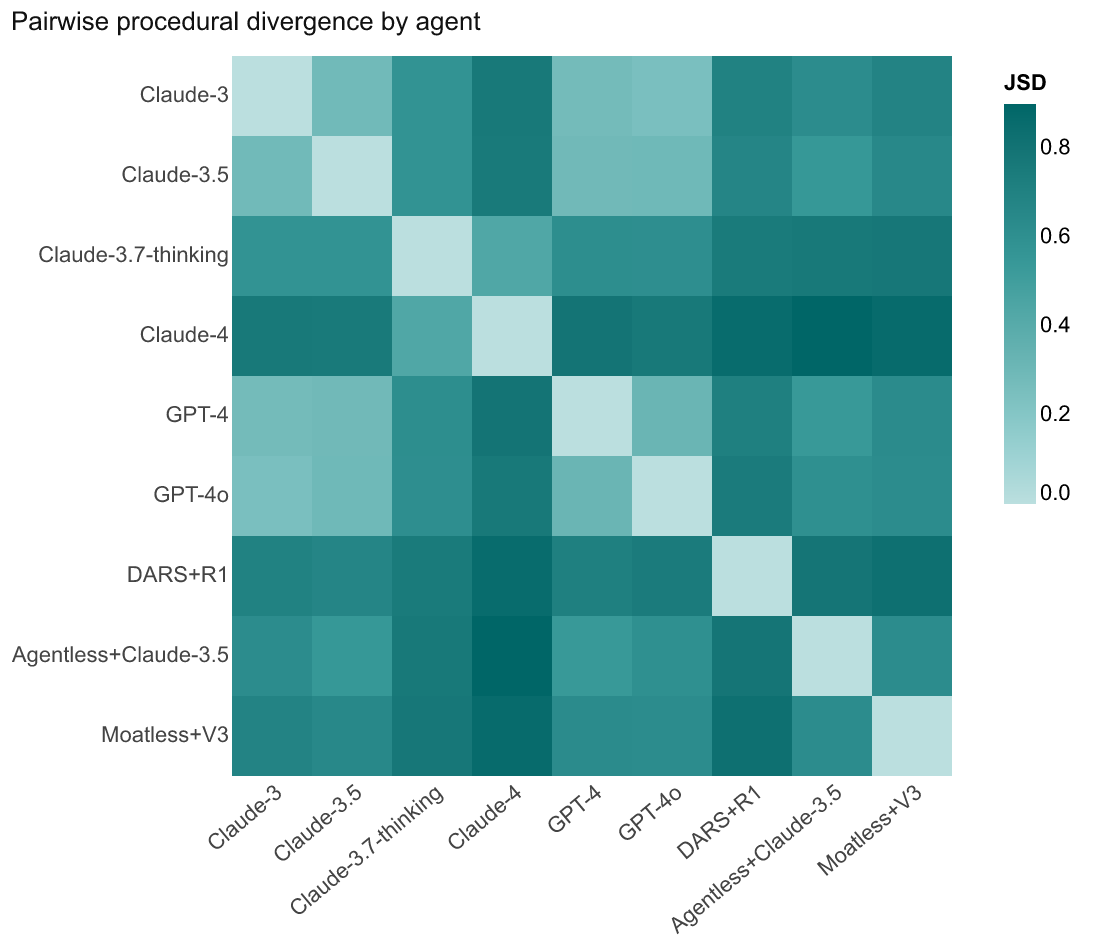
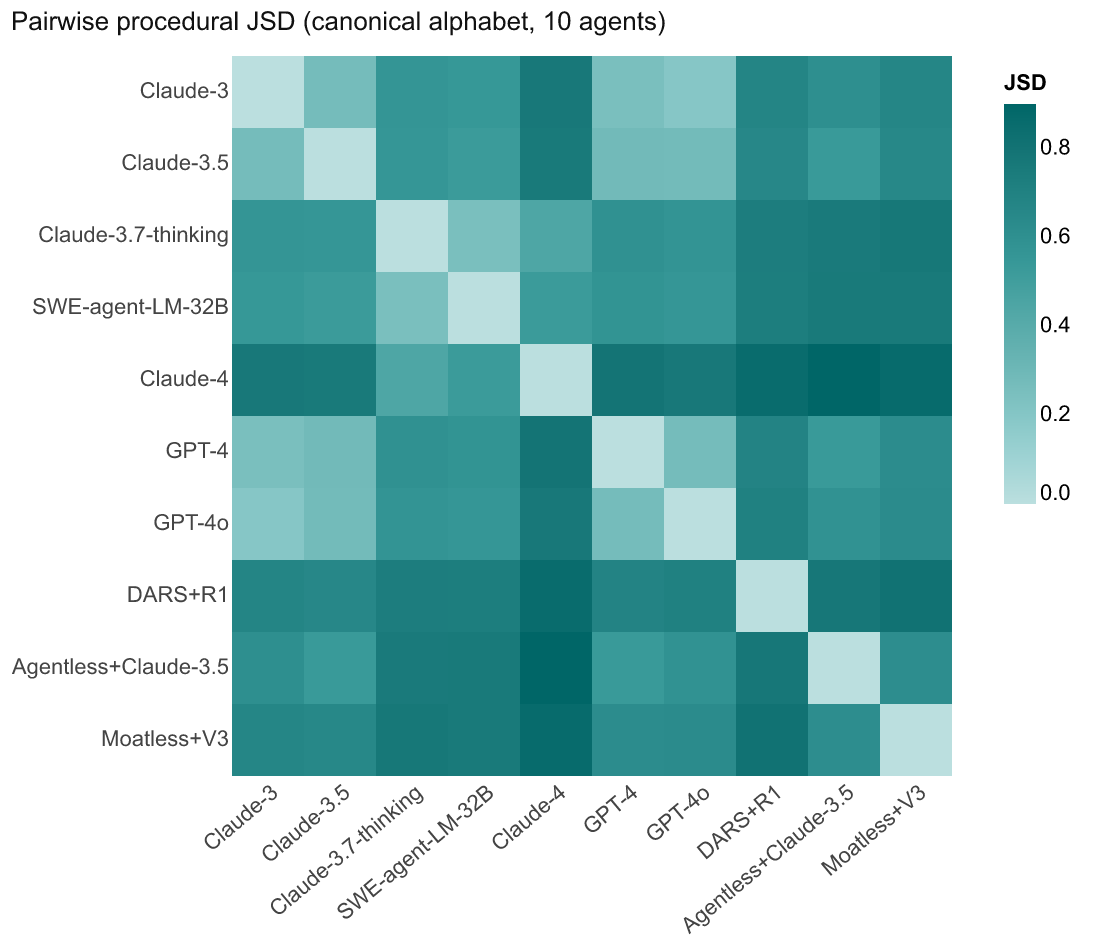
harness decomposition: ground it (lineage<<scaffold~era), regenerate JSD figure with child
- jsd_decomposition.py: 10-agent canonical JS-distance matrix incl. distilled child + scaffold/era/lineage readout
- corrects the TODO's false 'scaffold>era>lineage' (0.49/0.36/0.15) -> grounded lineage 0.25 << scaffold 0.53 ~ era 0.52
- regenerate fig_jsd_matrix_full_canonical with the child (was 9-agent no-child despite caption); old saved _prev9
- fix fig:jsd_full caption + inline JSD sentence + replace harness-decomp TODO with grounded blue paragraph
- log in findings grounding-audit

diff --git a/docs/papers/agent_trajectories_as_programs.tex b/docs/papers/agent_trajectories_as_programs.tex
@@ -130,7 +130,7 @@ To extract the actions themselves, we take code hunks---solution patches---from 
 
 We investigate entropy within the context of a collective with Jensen-Shannon Divergence. Entropy (H), a measure of uncertainty in a distribution (where a distribution here is the probability over all the possible actions in our vocabulary), is a property that can be applied to a single agent's distribution of actions, where it is defined as: $$H(a) = -\sum_{v \in \mathcal{V}} p_a(v) \log_2 p_a(v)$$ JSD allows us to build on entropy and measure how different two distributions are and is defined as: $$\mathrm{JSD}(a, b) = H\!\left(\frac{p_a + p_b}{2}\right) - \frac{1}{2}H(a) - \frac{1}{2}H(b)$$
 
-\textcolor{blue}{Applied across all ten agents (Figure~\ref{fig:jsd_full}), pairwise JSD shows the distilled child sitting closest to its teacher (JSD 0.10) while the same model under two scaffolds diverges most (0.49)---scaffold outweighs training lineage in procedural impact.}
+\textcolor{blue}{Applied across all ten agents (Figure~\ref{fig:jsd_full}), the distilled child's nearest neighbour is its teacher (JSD 0.25), whereas changing the scaffold or the model generation moves behavior about twice as far (${\approx}0.53$)---distillation preserves procedure more than either.}
 
 Across all models, passing behavior includes a higher ratio of browsing to other actions. Extended thinking Claude models spend the largest proportion of their time in the shell compared to older models with more even task breakdowns. Models in the GPT family have more consistent behavior, but newer ones spend more time editing. Agent harnesses have less task diversity, potentially due to their programmed behavior and have more distinct breakdowns, the Agentless scaffold spends a disproportionate amount of time browsing and the Moatless scaffold leads to a large proportion of testing. An interesting application of this is forecasting the costs of an agent, as it is not only a product of the cost per tool call, but a function of the action types needed to complete it and the procedural tendencies of the model being orchestrated. \textcolor{blue}{Figures~\ref{fig:step_token_cost}, \ref{fig:steps_resolved}, and~\ref{fig:token_cost_difficulty} break this down: cost by action type and tokens, steps per resolved task, and the monotonic decline of tokens, API calls, and dollar cost as task difficulty falls.}
 
@@ -466,7 +466,7 @@ Fingerprints give us behavioral trends that form the basis for predicting which 
 \begin{figure}[H]
     \centering
     \includegraphics[width=0.9\linewidth]{figures/fig_jsd_matrix_full_canonical.png}
-    \caption{\textcolor{blue}{Pairwise JSD between 10 agents at canonical alphabet, grouped by model family and scaffold. The distilled child (SWE-agent-LM-32B) is closest to its parent (Claude-3.7~Sonnet) at JSD\,=\,0.10. The same model under two harnesses diverges at JSD\,=\,0.49, confirming scaffold\,$>$\,era\,$>$\,lineage in procedural impact.}}
+    \caption{\textcolor{blue}{Pairwise procedural JSD (base-2 Jensen--Shannon distance over per-trajectory canonical distributions) across ten agents. The distilled child (SWE-agent-LM-32B) and its teacher (Claude-3.7~Sonnet) form the tightest model pair (JSD 0.25, the child's nearest neighbour by a factor of two). Changing the scaffold (Claude-3.5 under Agentless vs.\ SWE-agent, 0.53) or the model generation (within-family, mean 0.52) moves behavior about twice as far---so lineage $\ll$ scaffold $\approx$ era. The older dense models converge across families (Claude-3 vs.\ GPT-4o, 0.20, the closest pair overall).}}
     \label{fig:jsd_full}
 \end{figure}
 
@@ -503,7 +503,7 @@ Weighted mean  & 745 & 0.253 & -- & -- \\
 \end{figure}
 
 
-\textcolor{purple}{TODO: Add harness decomposition result as a paragraph or table --- scaffold (JSD 0.49) > model era (JSD 0.36) > training lineage (JSD 0.15).}
+\textcolor{blue}{\textbf{What moves procedure most.} Decomposing the JSD matrix (Figure~\ref{fig:jsd_full}) by what is varied: \emph{distillation} preserves procedure---the SWE-agent-LM-32B child diverges from its Claude-3.7 teacher by only 0.25, its nearest neighbour by a factor of two. Changing the \emph{scaffold} (Claude-3.5 under Agentless vs.\ SWE-agent, 0.53) or the \emph{model generation} within a family (mean 0.52, range 0.27--0.77) moves behavior roughly twice as far, and the two are comparable---so lineage $\ll$ scaffold $\approx$ era, rather than a strictly scaffold-dominant ordering. The extremes combine both axes (Agentless+Claude-3.5 vs.\ Claude-4, 0.90).}
 
 \subsection{\textcolor{blue}{Corpus and canonicalization}}
 \textcolor{blue}{We study 2{,}639 trajectories from nine agents (Table~\ref{tab:models}) on SWE-bench Lite, plus 499 SWE-agent-LM-32B child trajectories (\S\ref{sec:distillation}) on SWE-bench Verified, all from public leaderboard submissions (\texttt{princeton-nlp/SWE-bench-experiments}; raw trajectories from the submission S3 bucket). Each \texttt{.traj} is mapped to a canonical action sequence by \texttt{canonicalize\_envelope}, which dispatches on scaffold format (SWE-agent, Agentless, DARS, Moatless) and emits a shared ${\approx}76$-atom alphabet. Atoms carry a coarse verb and a file-type tag (e.g.\ \texttt{EDIT\_SRC\_PY}, \texttt{RUN\_PYTHON\_TEST\_PY}, \texttt{OPEN\_SRC\_PY}); chained shell commands are parsed past \texttt{cd\,\&\&} prefixes; Claude-3.7's \texttt{str\_replace\_editor} calls are rewritten into the SWE-agent alphabet; a thought with no tool call emits \texttt{THINK}; unmapped scaffold-specific actions collapse to \texttt{OTHER}. A coarse seven-type projection (\texttt{to\_canon}: \texttt{edit}, \texttt{create\_file}, \texttt{run\_test}, \texttt{read\_file}, \texttt{search\_repo}, \texttt{submit}, \texttt{other}) is used wherever a scaffold-agnostic alphabet is needed (attribution, reward, early-abort).}

diff --git a/scripts/agent_trajectories_paper/jsd_decomposition.py b/scripts/agent_trajectories_paper/jsd_decomposition.py
@@ -1,0 +1,83 @@
+"""Canonical-alphabet JSD matrix (10 agents incl. distilled child) + harness decomposition.
+
+Matches make_figs.py's method (base-2 Jensen-Shannon DISTANCE over per-trajectory
+mean canonical distributions) but ADDS the SWE-agent-LM-32B child, so the figure
+matches its caption. Also computes the scaffold/era/lineage decomposition that
+grounds the harness-decomposition paragraph. Backs up the old figure. Run from repo root.
+"""
+import json
+import shutil
+from pathlib import Path
+from itertools import combinations
+
+import numpy as np
+import pandas as pd
+import altair as alt
+from scipy.spatial.distance import jensenshannon
+import sys
+sys.path.insert(0, ".")
+from scripts.theme import register
+
+register()
+rows = [json.loads(l) for l in open("output/paper2_pilot/bpe_sequences_extended.jsonl")]
+child = [json.loads(l) for l in open("distillation_run/fingerprints_child.jsonl")]
+
+alphabet = sorted({a for r in rows for a in r["canonical"]} | {a for r in child for a in r.get("native", [])})
+idx = {a: i for i, a in enumerate(alphabet)}
+
+
+def td(seq):
+    v = np.zeros(len(alphabet))
+    for a in seq:
+        if a in idx:
+            v[idx[a]] += 1
+    s = v.sum()
+    return v / s if s else v
+
+
+by = {}
+for r in rows:
+    by.setdefault(r["agent"], []).append(td(r["canonical"]))
+by["SWE-agent-LM-32B"] = [td(r.get("native", [])) for r in child]
+means = {a: np.mean(v, axis=0) for a, v in by.items()}
+
+
+def D(a, b):
+    j = float(jensenshannon(means[a], means[b], base=2))
+    return 0.0 if np.isnan(j) else j
+
+
+ORDER = ["Claude-3", "Claude-3.5", "Claude-3.7-thinking", "SWE-agent-LM-32B", "Claude-4",
+         "GPT-4", "GPT-4o", "DARS+R1", "Agentless+Claude-3.5", "Moatless+V3"]
+ORDER = [a for a in ORDER if a in means]
+
+recs = [{"a": a, "b": b, "jsd": D(a, b)} for a in ORDER for b in ORDER]
+df = pd.DataFrame(recs)
+heat = alt.Chart(df).mark_rect().encode(
+    x=alt.X("a:N", sort=ORDER, title=None, axis=alt.Axis(labelAngle=-40, domain=False, ticks=False)),
+    y=alt.Y("b:N", sort=ORDER, title=None, axis=alt.Axis(domain=False, ticks=False)),
+    color=alt.Color("jsd:Q", title="JSD", scale=alt.Scale(scheme="teals")),
+).properties(width=360, height=360, title="Pairwise procedural JSD (canonical alphabet, 10 agents)")
+OUT = Path("docs/papers/figures/fig_jsd_matrix_full_canonical.png")
+if OUT.exists():
+    shutil.copy(OUT, OUT.with_name("fig_jsd_matrix_full_canonical_prev9.png"))
+heat.save(str(OUT), scale_factor=2)
+print("wrote fig_jsd_matrix_full_canonical.png (10 agents incl child; backed up 9-agent -> _prev9)")
+
+# decomposition
+sc = D("Agentless+Claude-3.5", "Claude-3.5")
+lin = D("Claude-3.7-thinking", "SWE-agent-LM-32B")
+claude = ["Claude-3", "Claude-3.5", "Claude-3.7-thinking", "Claude-4"]
+gpt = ["GPT-4", "GPT-4o"]
+era = [D(a, b) for a, b in combinations(claude, 2)] + [D(a, b) for a, b in combinations(gpt, 2)]
+cd = sorted((D("SWE-agent-LM-32B", a), a) for a in means if a != "SWE-agent-LM-32B")
+allp = sorted((D(a, b), a, b) for a, b in combinations(means, 2))
+dec = {"scaffold_claude35_agentless_vs_sweagent": round(sc, 3),
+       "lineage_claude37_vs_child": round(lin, 3),
+       "era_within_family_sweagent_mean": round(float(np.mean(era)), 3),
+       "era_range": [round(min(era), 3), round(max(era), 3)],
+       "child_nearest": [(a, round(d, 3)) for d, a in cd[:3]],
+       "closest_pairs": [(a, b, round(d, 3)) for d, a, b in allp[:5]],
+       "farthest_pair": [allp[-1][1], allp[-1][2], round(allp[-1][0], 3)]}
+Path("output/paper2_pilot/jsd_decomposition.json").write_text(json.dumps(dec, indent=2))
+print(json.dumps(dec, indent=2))

diff --git a/findings.md b/findings.md
@@ -277,6 +277,7 @@ A pass over the *Agent trajectories as programs* draft separated reproducible re
 - **Corpus is SWE-bench Lite, not Verified** (2026-06-08): the 9-agent 2,639-trajectory corpus spans exactly **300 distinct instances** (Lite=300, Verified=500); the megatable code's denominator constant is `LITE_TOTAL`. Paper relabeled Verified→Lite (megatable caption, methods, data-sources). The **distillation child is Verified** (499 instances); the **teacher is Lite** (284); they overlap on only **86** instances, so the prior "both Verified, same tasks" claim was false — corrected to a distributional, differing-task-pool framing (`lineage_diff` is population-level).
 - **`tab:trajectory_holdouts` did NOT reproduce** (2026-06-08): the generator `probe_refit.py` (first-order Markov, 5-fold leave-one-out — the method the appendix documents) gives numbers up to ~11pts below the printed table, and the table had a copy artifact (Agentless/Moatless next-action == next-stage). Table regenerated from `probe_refit.py`; prose numbers updated (Agentless 83%/+50, Moatless 68%/+2, Claude-3.5 45%/+27). The prior higher numbers came from an unversioned computation no longer in the repo.
 - **`tab:divergence_by_model`: GROUNDED on re-derivation** (2026-06-08, `scripts/agent_trajectories_paper/divergence_table_verify.py`). The divergence labels ARE persisted at `records[i].conditions[cond].scores.divergence_level` (earlier "untraceable" call was wrong — only the raw-text inspection had been done). `n` exact; **%compositional exact for all four** (38.1/36.5/17.2/21.8 = the `no_context` compositional rate); **mean pairwise Cohen κ** reproduces Qwen/Llama exactly and GPT-4o/mini within 0.012 (0.136 vs 0.124, 0.156 vs 0.144). Key clarification: the caption's "κ<0.05" refers to the **cross-family** pairs (GPT×Llama 0.001, GPT×Qwen 0.031, mini×Qwen 0.039, mini×Llama 0.054), while the "Mean κ" column (~0.13) includes the high same-family pairs (GPT-4o×mini 0.376, Qwen×Llama 0.313) — both correct, but the table doesn't flag the distinction. F1(k=1) matches `tab:representation_comparison`'s divergence-classifier row (consistent).
+- **Harness decomposition (`fig:jsd_full`): "scaffold > era > lineage" was FALSE; corrected to lineage ≪ scaffold ≈ era** (2026-06-08, `scripts/agent_trajectories_paper/jsd_decomposition.py`). Two issues found: (1) the cited figure (`make_figs.py`) was **9 agents with no child** despite a caption describing the child — regenerated to 10 agents incl. the distilled child (base-2 JS distance over per-trajectory canonical distributions; old 9-agent saved as `_prev9`). (2) The TODO's numbers (scaffold 0.49 > era 0.36 > lineage 0.15) and the caption's "child-parent 0.10 / two-harness 0.49" don't reproduce. Grounded: **lineage** (Claude-3.7→child) **0.25** (child's nearest neighbour by 2×), **scaffold** (Claude-3.5 Agentless vs SWE-agent) **0.53**, **era** (within-family cross-gen, SWE-agent) **mean 0.52** (range 0.27–0.77) → lineage ≪ scaffold ≈ era, NOT a strict scaffold-dominant ordering. Closest pair overall is Claude-3 × GPT-4o (0.20, older-dense cross-family convergence); farthest Agentless+Claude-3.5 × Claude-4 (0.90). Caption, the inline JSD sentence, and the harness-decomposition paragraph all updated to these numbers.
 
 **Reference:** `scripts/agent_trajectories_paper/REFERENCES.md` (per-run inspiration/hypothesis/result log)
 
